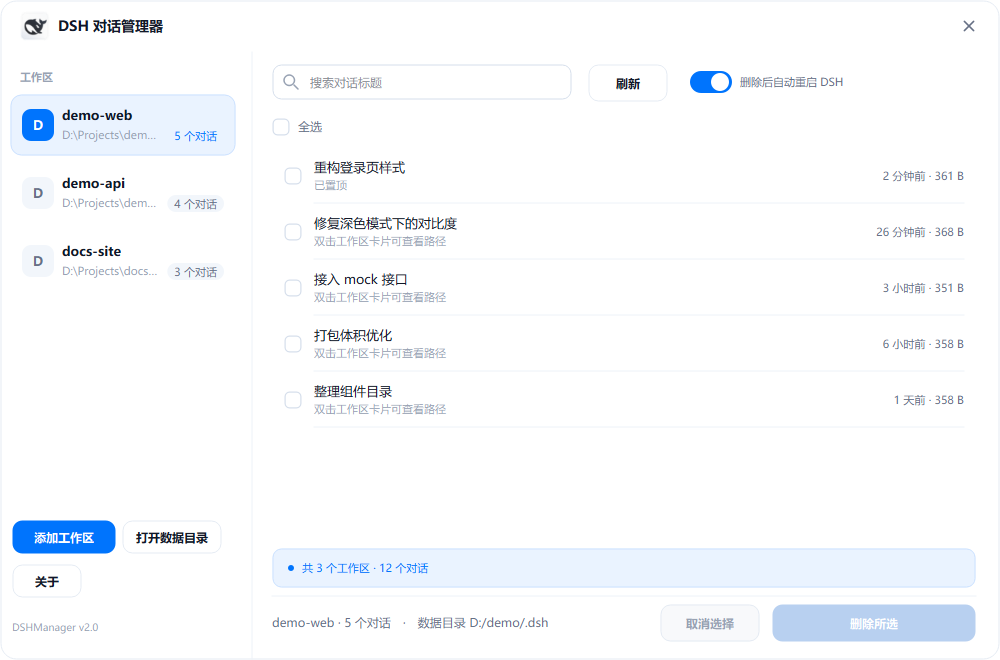
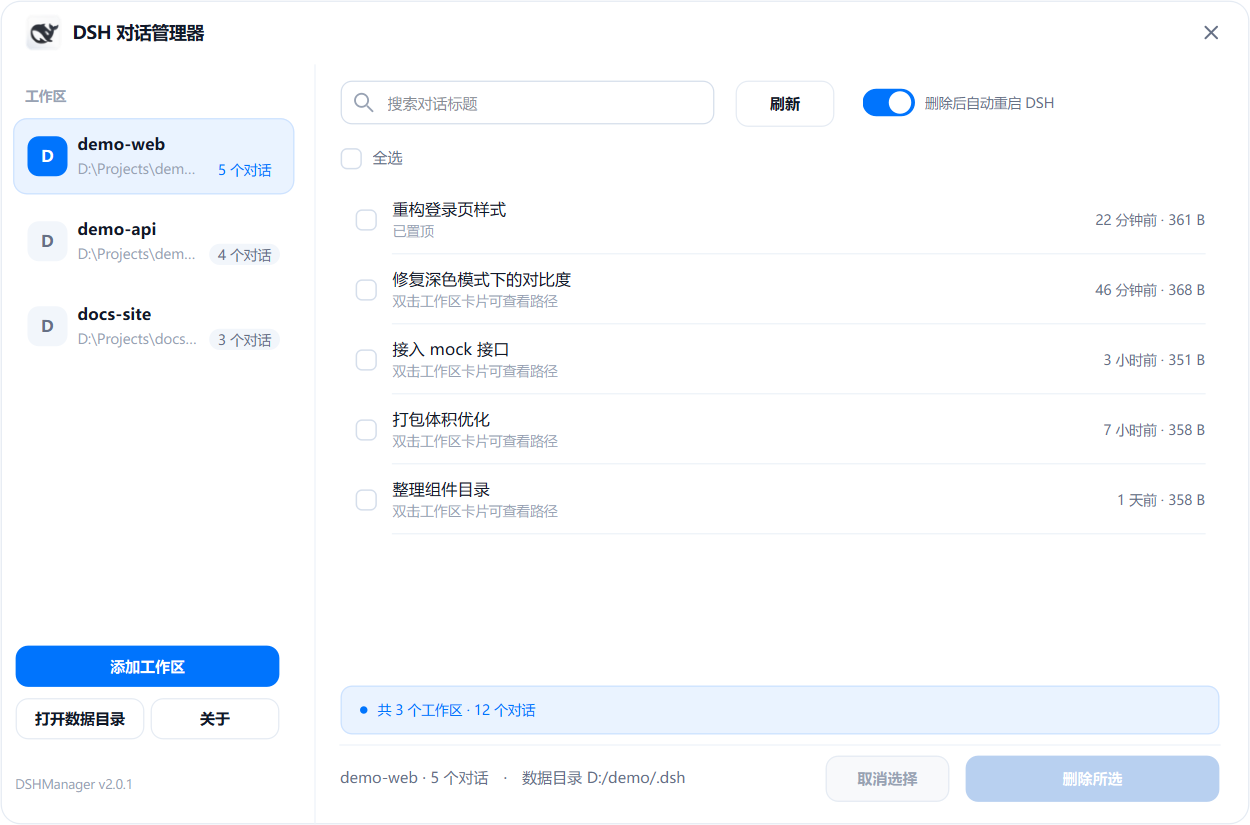
fix: v2.0.1 - readable About text, tidier sidebar buttons

diff --git a/source/src/dshmanager/ui_main.py b/source/src/dshmanager/ui_main.py
@@ -412,24 +412,24 @@ class MainWindow(ChromeWindow):
         self._sidebar_label.setGeometry(20, 66, 160, 22)
 
         self._cards_area, self._cards_body, self._cards_layout = make_scroll_area(self)
-        self._cards_area.setGeometry(10, 94, 232, 414)
+        self._cards_area.setGeometry(10, 94, 232, 406)
         self._cards_layout.setContentsMargins(0, 0, 6, 8)
         self._cards_layout.setSpacing(6)
         self._cards_layout.addStretch(1)
 
         self._open_dir = FlatButton("打开数据目录", primary=False, parent=self, height=34)
-        self._open_dir.setGeometry(122, 520, 100, 34)
+        self._open_dir.setGeometry(12, 558, 104, 32)
         self._open_dir.clicked.connect(self._open_data_dir)
 
         self._about = FlatButton("关于", primary=False, parent=self, height=34)
-        self._about.setGeometry(12, 564, 70, 32)
+        self._about.setGeometry(120, 558, 104, 32)
         self._about.clicked.connect(self._show_about)
 
         self._add_ws = FlatButton("添加工作区", primary=True, parent=self, height=34)
-        self._add_ws.setGeometry(12, 520, 104, 34)
+        self._add_ws.setGeometry(12, 516, 212, 34)
         self._add_ws.clicked.connect(self._add_workspace_dialog)
 
-        self._version = QLabel("DSHManager v2.0", self)
+        self._version = QLabel("DSHManager v2.0.1", self)
         self._version.setFont(theme.font(7.8))
         self._version.setStyleSheet("color:#98A2B3;background:transparent;")
         self._version.setGeometry(12, 618, 200, 18)

diff --git a/source/src/dshmanager/dialogs.py b/source/src/dshmanager/dialogs.py
@@ -116,10 +116,10 @@ class AboutDialog(ChromeDialog):
 
         body = _Label(
             self,
-            "一个用来整理 DeepSeek Harness 本地对话的小工具。\\n"
-            "按工作区查看所有对话，支持搜索、批量删除，删完可以自动重启 DSH。\\n\\n"
-            f"数据目录：{dsh_home}\\n"
-            "修改前会自动备份 workspace.json；被删除的对话无法恢复。",
+            "整理 DeepSeek Harness 保存在本机的对话：按工作区浏览，支持搜索与批量删除。\n"
+            "删除完成后可以自动重启 DSH。\n\n"
+            f"数据目录：{dsh_home}\n"
+            "写入前会自动备份 workspace.json；被删除的对话无法恢复。",
             8.8, False, theme.MUTED,
         )
         body.setGeometry(28, 106, 504, 150)

diff --git a/CHANGELOG.md b/CHANGELOG.md
@@ -1,5 +1,14 @@
 # Changelog
 
+## v2.0.1 — 2026-11-15
+
+### 修复
+- 「关于」窗口里的换行被原样输出（显示成 `\n`），改为真正的换行。
+
+### 优化
+- 侧栏底部三个按钮重新排布：主操作「添加工作区」独占一行，次级操作「打开数据目录 / 关于」并排等宽。
+- 「关于」文案改写得更简洁。
+
 ## v2.0.0 — 2026-11-15
 
 图形界面重写版。
